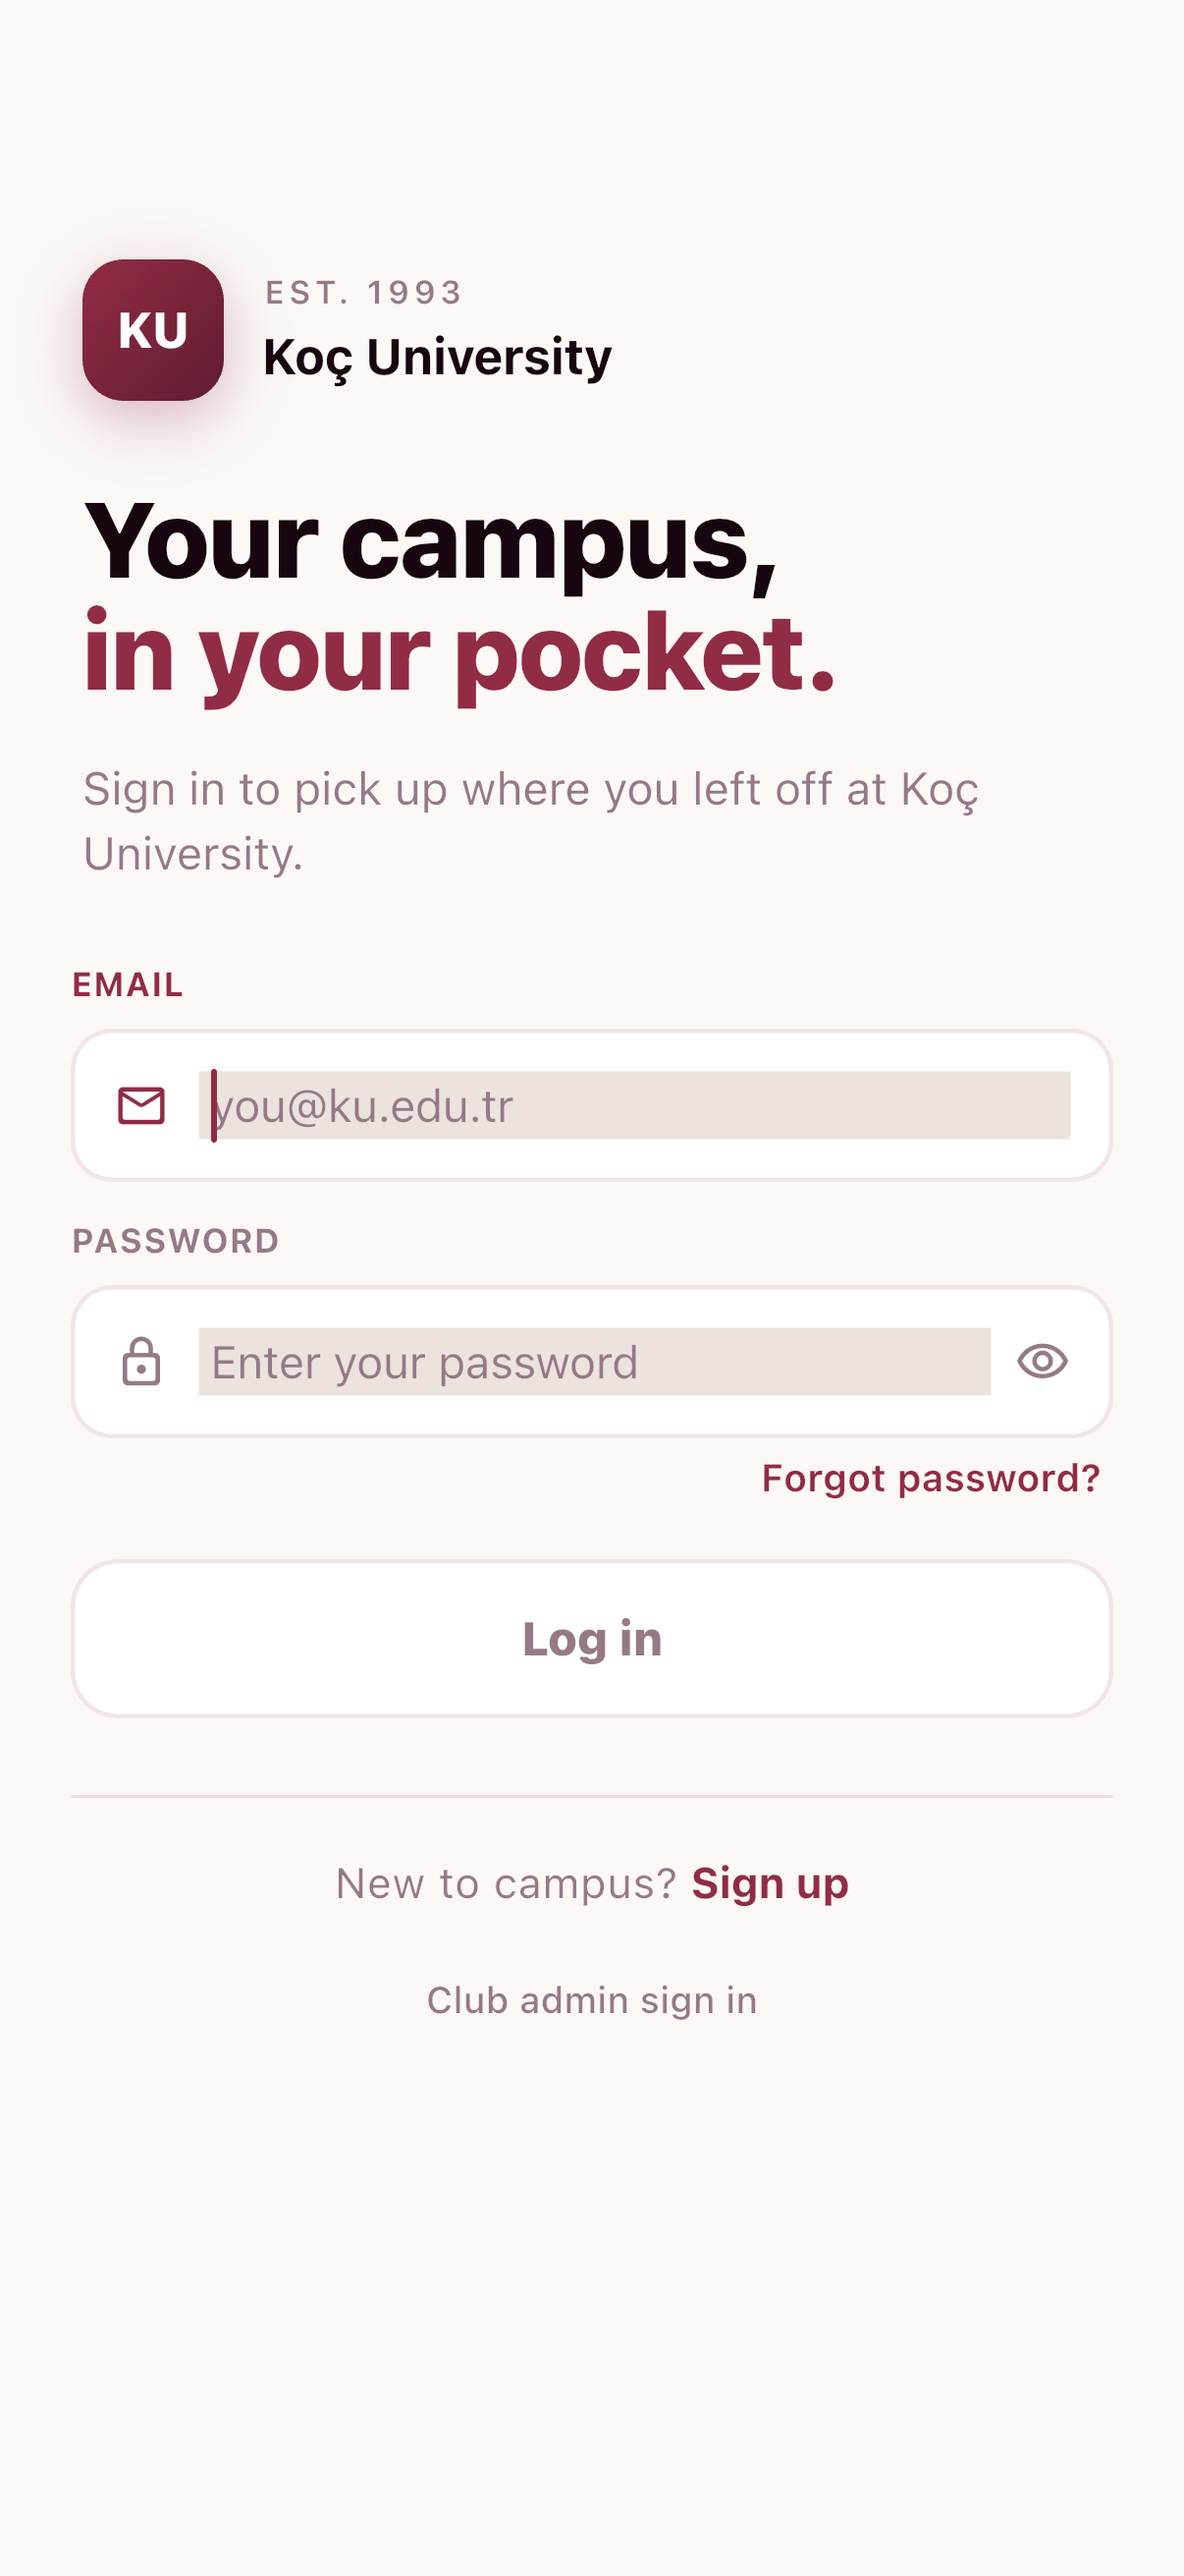
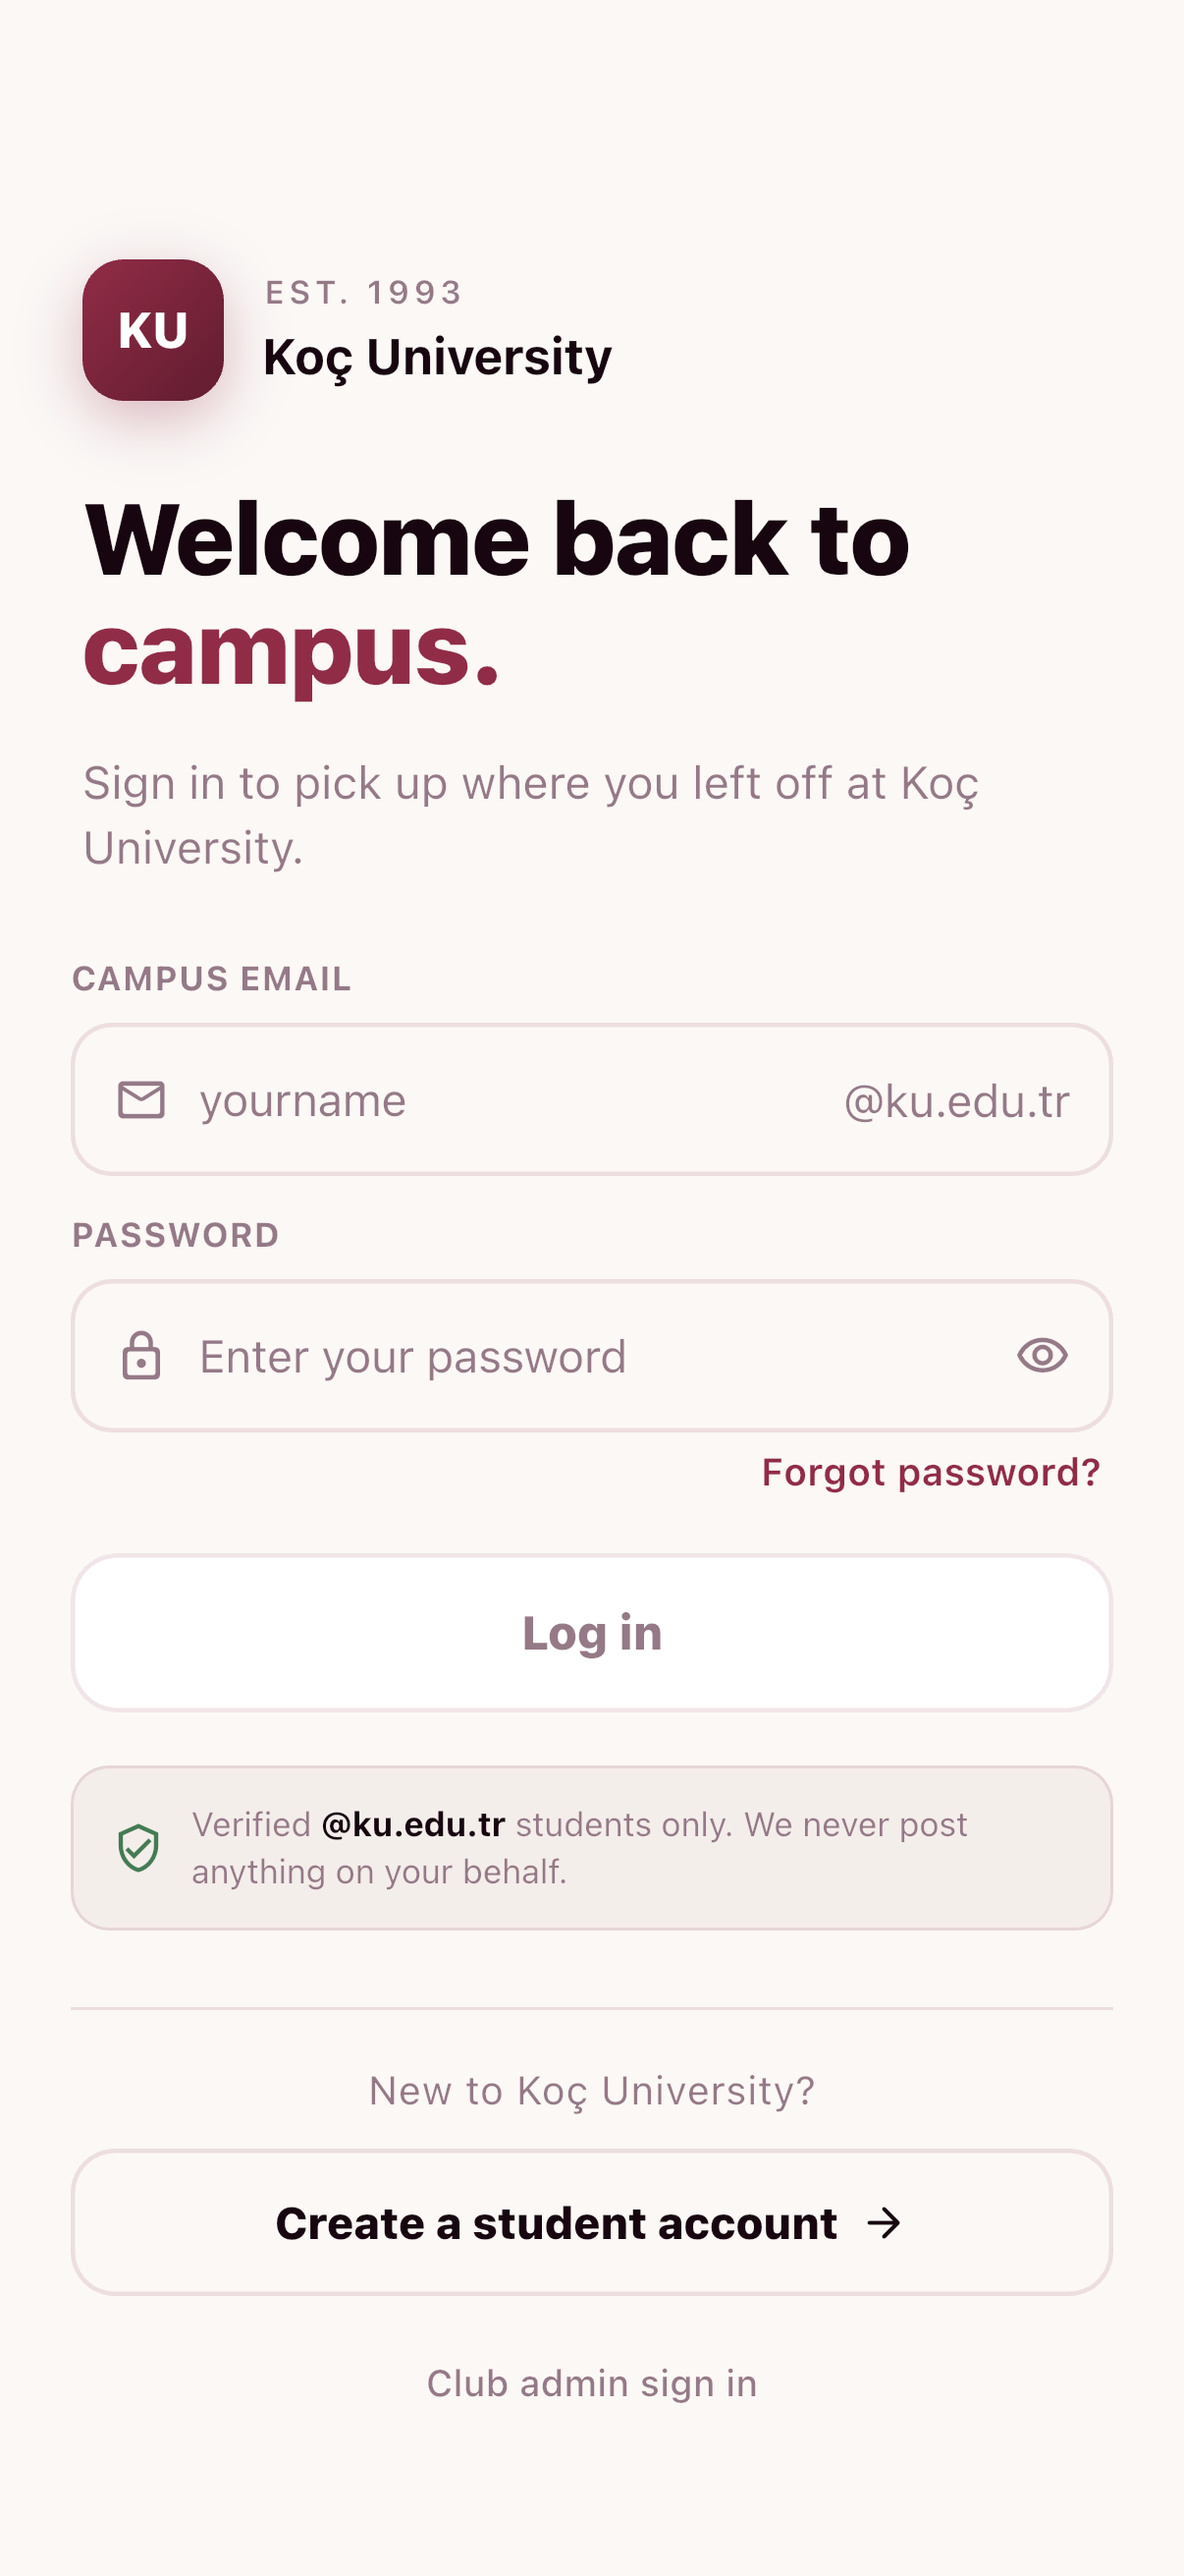
June_22

diff --git a/lib/screens/login_screen.dart b/lib/screens/login_screen.dart
@@ -1,4 +1,5 @@
 import 'package:flutter/material.dart';
+import 'package:flutter/services.dart';
 import '../services/app_colors.dart';
 import '../services/auth_service.dart';
 import 'club_admin_auth_screen.dart';
@@ -40,10 +41,20 @@ class _LoginScreenState extends State<LoginScreen> {
       _emailController.text.trim().isNotEmpty &&
       _passwordController.text.isNotEmpty;
 
+  /// The campus-email field holds only the local part; "@ku.edu.tr" is a fixed
+  /// suffix, so strip any domain off an incoming value (e.g. a pre-filled email
+  /// after sign-up).
+  static String _localPart(String email) {
+    final at = email.indexOf('@');
+    return at < 0 ? email : email.substring(0, at);
+  }
+
   @override
   void initState() {
     super.initState();
-    _emailController = TextEditingController(text: widget.initialEmail);
+    _emailController = TextEditingController(
+      text: _localPart(widget.initialEmail),
+    );
   }
 
   @override
@@ -55,12 +66,15 @@ class _LoginScreenState extends State<LoginScreen> {
 
   Future<void> _handleLogin() async {
     if (_isSubmitting || _done) return;
-    final email = _emailController.text.trim();
+    final localPart = _emailController.text.trim();
     final password = _passwordController.text.trim();
-    if (email.isEmpty || password.isEmpty) {
+    if (localPart.isEmpty || password.isEmpty) {
       setState(() => _error = 'Please enter your email and password');
       return;
     }
+    // Users type only the local part (e.g. "htuncay23"); the "@ku.edu.tr"
+    // domain is appended automatically. Lower-cased so any casing logs in.
+    final email = '${localPart.toLowerCase()}@ku.edu.tr';
     setState(() {
       _error = null;
       _isSubmitting = true;
@@ -178,16 +192,16 @@ class _LoginScreenState extends State<LoginScreen> {
                     RichText(
                       text: TextSpan(
                         style: TextStyle(
-                          fontSize: 36,
+                          fontSize: 34,
                           fontWeight: FontWeight.w800,
-                          letterSpacing: -1.4,
-                          height: 1.05,
+                          letterSpacing: -1.2,
+                          height: 1.08,
                           color: AppColors.text,
                         ),
                         children: [
-                          const TextSpan(text: 'Your campus,\n'),
+                          const TextSpan(text: 'Welcome back to\n'),
                           TextSpan(
-                            text: 'in your pocket.',
+                            text: 'campus.',
                             style: TextStyle(color: AppColors.primaryRed),
                           ),
                         ],
@@ -217,11 +231,13 @@ class _LoginScreenState extends State<LoginScreen> {
                   crossAxisAlignment: CrossAxisAlignment.start,
                   children: [
                     _AuthField(
-                      label: 'Email',
+                      label: 'Campus email',
                       controller: _emailController,
-                      hint: 'you@ku.edu.tr',
+                      hint: 'yourname',
                       icon: Icons.mail_outline_rounded,
-                      keyboardType: TextInputType.emailAddress,
+                      keyboardType: TextInputType.text,
+                      suffixText: '@ku.edu.tr',
+                      inputFormatters: [_NoDomainFormatter()],
                       onChanged: (_) => setState(() => _error = null),
                       onSubmitted: (_) => _handleLogin(),
                     ),
@@ -317,30 +333,40 @@ class _LoginScreenState extends State<LoginScreen> {
                   children: [
                     Container(height: 1, color: AppColors.divider),
                     const SizedBox(height: 18),
-                    Wrap(
-                      alignment: WrapAlignment.center,
-                      crossAxisAlignment: WrapCrossAlignment.center,
-                      children: [
-                        Text(
-                          'New to campus? ',
-                          style: TextStyle(
-                            fontSize: 14.5,
-                            color: AppColors.secondaryText,
+                    // Sign up → hands off to the sign-up flow
+                    GestureDetector(
+                      onTap: widget.onSignUp,
+                      child: Container(
+                        height: 50,
+                        decoration: BoxDecoration(
+                          borderRadius: BorderRadius.circular(15),
+                          border: Border.all(
+                            color: AppColors.divider,
+                            width: 1.5,
                           ),
                         ),
-                        GestureDetector(
-                          onTap: widget.onSignUp,
-                          child: Text(
-                            'Sign up',
-                            style: TextStyle(
-                              fontSize: 14.5,
-                              fontWeight: FontWeight.w700,
-                              letterSpacing: -0.1,
-                              color: AppColors.primaryRed,
+                        alignment: Alignment.center,
+                        child: Row(
+                          mainAxisSize: MainAxisSize.min,
+                          children: [
+                            Text(
+                              'Sign up',
+                              style: TextStyle(
+                                fontSize: 15,
+                                fontWeight: FontWeight.w800,
+                                letterSpacing: -0.2,
+                                color: AppColors.text,
+                              ),
                             ),
-                          ),
+                            const SizedBox(width: 7),
+                            Icon(
+                              Icons.arrow_forward_rounded,
+                              size: 17,
+                              color: AppColors.text,
+                            ),
+                          ],
                         ),
-                      ],
+                      ),
                     ),
                     const SizedBox(height: 6),
                     TextButton(
@@ -417,6 +443,8 @@ class _AuthField extends StatefulWidget {
   final bool obscureText;
   final Widget? trailing;
   final TextInputType? keyboardType;
+  final String? suffixText;
+  final List<TextInputFormatter>? inputFormatters;
   final ValueChanged<String>? onChanged;
   final ValueChanged<String>? onSubmitted;
 
@@ -428,6 +456,8 @@ class _AuthField extends StatefulWidget {
     this.obscureText = false,
     this.trailing,
     this.keyboardType,
+    this.suffixText,
+    this.inputFormatters,
     this.onChanged,
     this.onSubmitted,
   });
@@ -470,6 +500,7 @@ class _AuthFieldState extends State<_AuthField> {
                   controller: widget.controller,
                   obscureText: widget.obscureText,
                   keyboardType: widget.keyboardType,
+                  inputFormatters: widget.inputFormatters,
                   autocorrect: false,
                   enableSuggestions: false,
                   onChanged: widget.onChanged,
@@ -499,6 +530,15 @@ class _AuthFieldState extends State<_AuthField> {
                   ),
                 ),
               ),
+              if (widget.suffixText != null)
+                Text(
+                  widget.suffixText!,
+                  style: TextStyle(
+                    fontSize: 15.5,
+                    color: AppColors.secondaryText,
+                    letterSpacing: -0.2,
+                  ),
+                ),
               if (widget.trailing != null) ...[
                 const SizedBox(width: 8),
                 widget.trailing!,
@@ -507,6 +547,23 @@ class _AuthFieldState extends State<_AuthField> {
           ),
         ),
       ],
+    );
+  }
+}
+
+// ─── Email local-part formatter: drop anything from "@" onward ─────────────────
+class _NoDomainFormatter extends TextInputFormatter {
+  @override
+  TextEditingValue formatEditUpdate(
+    TextEditingValue oldValue,
+    TextEditingValue newValue,
+  ) {
+    final at = newValue.text.indexOf('@');
+    if (at < 0) return newValue;
+    final text = newValue.text.substring(0, at);
+    return TextEditingValue(
+      text: text,
+      selection: TextSelection.collapsed(offset: text.length),
     );
   }
 }

diff --git a/test/login_localpart_test.dart b/test/login_localpart_test.dart
@@ -1,0 +1,35 @@
+import 'package:flutter/material.dart';
+import 'package:flutter_test/flutter_test.dart';
+
+import 'package:flutter_application_1/screens/login_screen.dart';
+
+/// The campus-email field needs only the local part ("htuncay23"); the
+/// "@ku.edu.tr" domain is shown as a fixed suffix and never typed. Pasting a
+/// full email is normalised back down to the local part.
+void main() {
+  testWidgets('Email field only needs the username, not @ku.edu.tr', (
+    tester,
+  ) async {
+    await tester.pumpWidget(
+      MaterialApp(
+        home: LoginScreen(onLogin: () {}, onSignUp: () {}, onAdminLogin: () {}),
+      ),
+    );
+    await tester.pump();
+
+    // The domain is presented for the user — they don't type it.
+    expect(find.text('@ku.edu.tr'), findsOneWidget);
+
+    final emailField = find.byType(TextField).first;
+
+    // Typing just the username keeps it as-is.
+    await tester.enterText(emailField, 'htuncay23');
+    await tester.pump();
+    expect(tester.widget<TextField>(emailField).controller!.text, 'htuncay23');
+
+    // Even if a full email is pasted, the domain is stripped automatically.
+    await tester.enterText(emailField, 'htuncay23@ku.edu.tr');
+    await tester.pump();
+    expect(tester.widget<TextField>(emailField).controller!.text, 'htuncay23');
+  });
+}

diff --git a/test/widget_test.dart b/test/widget_test.dart
@@ -12,7 +12,7 @@ void main() {
     // Brand header + the design's login affordances are the root UI.
     expect(find.text('Koç University'), findsOneWidget);
     expect(find.text('Log in'), findsOneWidget);
-    expect(find.text('Sign up'), findsOneWidget);
+    expect(find.text('Create a student account'), findsOneWidget);
   });
 
   testWidgets('login screen "Sign up" hands off to the sign-up flow', (
@@ -30,7 +30,10 @@ void main() {
     );
     await tester.pump();
 
-    await tester.tap(find.text('Sign up'));
+    final cta = find.text('Create a student account');
+    await tester.ensureVisible(cta);
+    await tester.pump();
+    await tester.tap(cta);
     await tester.pump();
 
     expect(signUpTapped, isTrue);

diff --git a/integration_test/login_screen_drive_test.dart b/integration_test/login_screen_drive_test.dart
@@ -42,10 +42,10 @@ void main() {
     // Brand + login affordances are the root UI.
     expect(find.text('Koç University'), findsOneWidget);
     expect(find.text('Log in'), findsOneWidget);
-    expect(find.text('Sign up'), findsOneWidget);
+    expect(find.text('Create a student account'), findsOneWidget);
 
     // Hand off to the multi-step sign-up flow.
-    await tester.tap(find.text('Sign up'));
+    await tester.tap(find.text('Create a student account'));
     await tester.pump(const Duration(milliseconds: 700));
     await binding.takeScreenshot('login-02-signup-step1');
     expect(find.textContaining('school email'), findsOneWidget);
